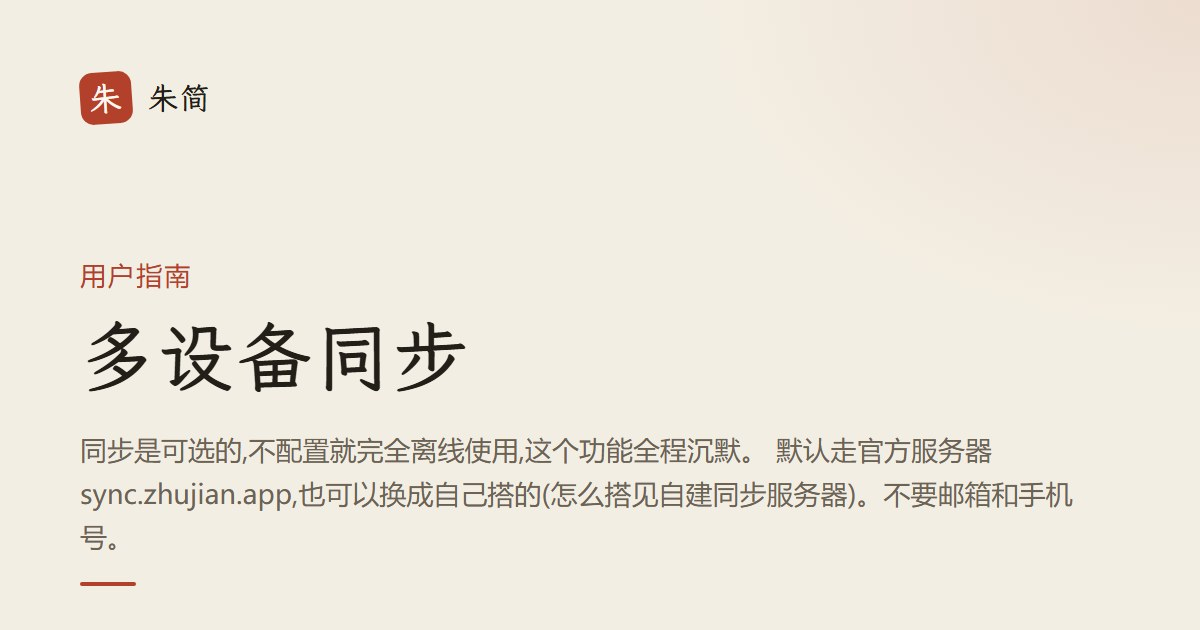
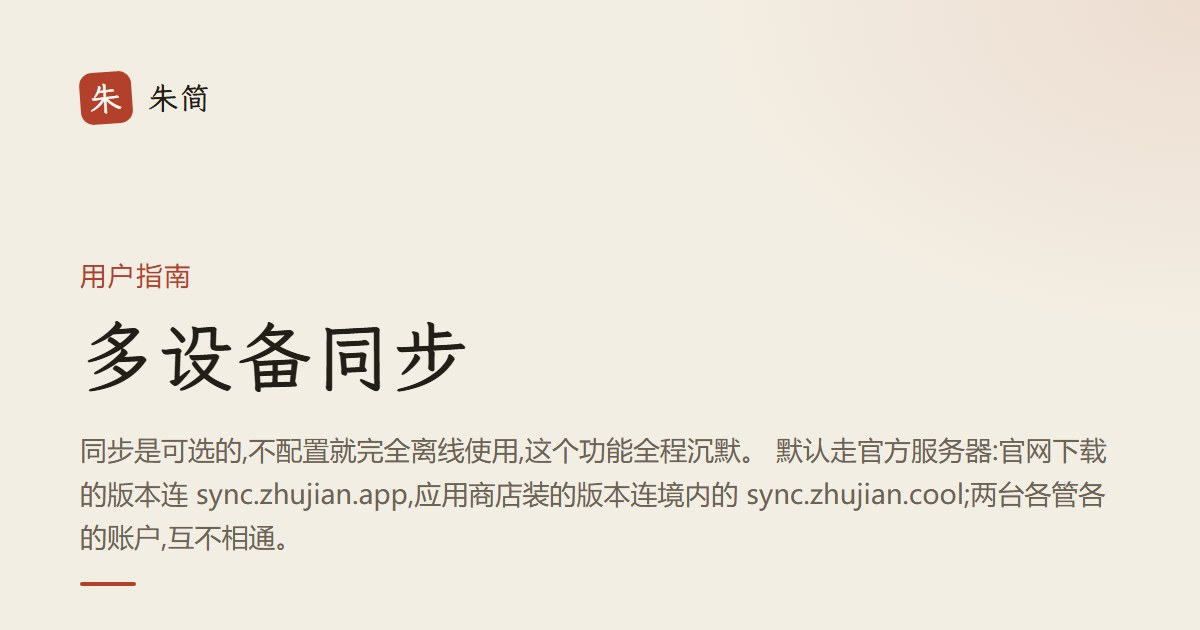
sync: 2026-09-30 (8bf8516)

Changed region(s): [[0.0617, 0.6937, 0.925, 0.8746]]

diff --git a/site/index.html b/site/index.html
@@ -1520,7 +1520,7 @@
             </div>
             <div>
               <h3 data-i18n="promise.statsTitle">没有统计代码</h3>
-              <p data-i18n="promise.stats">不开同步时,应用只会连 zhujian.app 查有没有新版本。</p>
+              <p data-i18n="promise.stats">不开同步时,官网下载的版本只连 zhujian.app 查新版本,商店装的一处都不连。</p>
             </div>
             <div>
               <h3 data-i18n="promise.aiTitle">不用 AI 改你的字</h3>
@@ -1746,7 +1746,7 @@
           "promise.dataTitle": { zh: "数据在你的设备上", en: "Data on your own devices" },
           "promise.data": { zh: "存在你自己设备上的 SQLite 数据库里,不联网也照常用。同步是可选的:文字和图片在你的设备上加密后才发出,服务器只经手密文。", en: "It lives in a SQLite database on your own device and works offline. Sync is optional: text and images are encrypted on your device before they leave, so the server only ever handles ciphertext." },
           "promise.statsTitle": { zh: "没有统计代码", en: "No analytics" },
-          "promise.stats": { zh: "不开同步时,应用只会连 zhujian.app 查有没有新版本。", en: "With sync off, the app only contacts zhujian.app to check for updates." },
+          "promise.stats": { zh: "不开同步时,官网下载的版本只连 zhujian.app 查新版本,商店装的一处都不连。", en: "With sync off, builds downloaded from zhujian.app only check it for updates; store builds contact nothing at all." },
           "promise.aiTitle": { zh: "不用 AI 改你的字", en: "No AI touching your words" },
           "promise.ai": { zh: "不润色、不总结、不替你归类。你写下什么,留下的就是什么。", en: "No polishing, no summaries, no auto-sorting. What you write is what stays." },
           "promise.linkSecurity": { zh: "同步服务器看得到什么、看不到什么 →", en: "What the sync server can and can't see →" },
@@ -1783,7 +1783,7 @@
           "facts.syncLabel": { zh: "同步", en: "Sync" },
           "facts.sync": { zh: "可选,端到端加密。文字和图片在你的设备上加密后才发出;服务器经手的只有密文,读不到内容;它不做备份,找回数据靠你自己的设备。同一个 Wi-Fi 下的两台设备直接互传,不经服务器;同网的人看不到内容,但能看出它们在同步。", en: "Optional, end-to-end encrypted. Notes and images are encrypted on your device before they leave; the server only ever handles ciphertext and cannot read it. It is not a backup; recovery relies on your own devices. Two devices on the same Wi-Fi sync directly, without the server; others on that network cannot read the content, though they can tell the two are syncing." },
           "facts.trackLabel": { zh: "统计", en: "Analytics" },
-          "facts.track": { zh: "没有统计代码。不开同步时,应用只会连 zhujian.app 查有没有新版本。", en: "No analytics. With sync off, the only place the app talks to is zhujian.app, to check for new versions." },
+          "facts.track": { zh: "没有统计代码。不开同步时,官网下载的版本只会连 zhujian.app 查有没有新版本;应用商店装的版本更新由商店管,一处都不连。", en: "No analytics. With sync off, builds downloaded from zhujian.app only contact zhujian.app, to check for new versions; store builds leave updates to the store and contact nothing at all." },
           "facts.aiLabel": { zh: "AI", en: "AI" },
           "facts.ai": { zh: "没有。不替你归类,不改你写的字;早期做过,已经删掉。", en: "None. It does not file or rewrite anything for you; the early version had some, and that code was removed." },
           "facts.freeLabel": { zh: "免费与开源", en: "Free and open source" },

diff --git a/site-app/docs/sync.html b/site-app/docs/sync.html
@@ -8,14 +8,14 @@
          字典与运行期在页面末尾的那段内联 script 里(⚠ 注释里别写闭合标签的字面量:
          按标签切文件的工具会先命中这里,360 当场栽过一次)。 -->
     <title>多设备同步 · 朱简用户指南</title>
-    <meta name="description" content="同步是可选的,不配置就完全离线使用,这个功能全程沉默。 默认走官方服务器 sync.zhujian.app,也可以换成自己搭的(怎么搭见自建同步服务器)。不要邮箱和手机号。" />
+    <meta name="description" content="同步是可选的,不配置就完全离线使用,这个功能全程沉默。 默认走官方服务器:官网下载的版本连 sync.zhujian.app,应用商店装的版本连境内的 sync.zhujian.cool;两台各管各的账户,互不相通。" />
 
     <!-- ───────── 分享卡片与 canonical(生成器写的;这一页只有中文,不挂 hreflang)───────── -->
     <link rel="canonical" href="https://zhujian.app/docs/sync.html" />
     <meta property="og:type" content="article" />
     <meta property="og:url" content="https://zhujian.app/docs/sync.html" />
     <meta property="og:title" content="多设备同步 · 朱简用户指南" />
-    <meta property="og:description" content="同步是可选的,不配置就完全离线使用,这个功能全程沉默。 默认走官方服务器 sync.zhujian.app,也可以换成自己搭的(怎么搭见自建同步服务器)。不要邮箱和手机号。" />
+    <meta property="og:description" content="同步是可选的,不配置就完全离线使用,这个功能全程沉默。 默认走官方服务器:官网下载的版本连 sync.zhujian.app,应用商店装的版本连境内的 sync.zhujian.cool;两台各管各的账户,互不相通。" />
     <meta property="og:image" content="https://zhujian.app/og/docs-sync.jpg" />
     <meta property="og:image:width" content="1200" />
     <meta property="og:image:height" content="630" />
@@ -1368,7 +1368,7 @@
         <div class="docs-prose">
 <ul>
 <li>同步是<strong>可选</strong>的,不配置就完全离线使用,这个功能全程沉默。</li>
-<li>默认走官方服务器 <code>sync.zhujian.app</code>,也可以换成自己搭的(怎么搭见<a href="/docs/self-host.html">自建同步服务器</a>)。不要邮箱和手机号。</li>
+<li>默认走官方服务器:官网下载的版本连 <code>sync.zhujian.app</code>,应用商店装的版本连境内的 <code>sync.zhujian.cool</code>;两台各管各的账户,互不相通。也可以换成自己搭的(怎么搭见<a href="/docs/self-host.html">自建同步服务器</a>)。不要邮箱和手机号。</li>
 <li>第一台设备点「创建账户」就开好了,不用抄任何东西;其余设备输入老设备生成的<strong>配对码</strong>加入,自动拿到全量数据,此后离线照用、上线互补。拿全量数据的那一会儿老设备要开着并联网;它不在线时新设备会说明原因,等它一上线自动接着拉。</li>
 <li>内容在你的设备上加密之后才发出去,服务器经手的只有密文,读不到内容。</li>
 <li>⚠ <strong>账户密钥只在你自己的设备上</strong>,服务器没有、也不做备份。<strong>恢复数据始终要靠至少一台还留着完整副本的设备,或一份你自己做的加密备份文件</strong>(下面「加密备份与备份码」那节);全部设备都丢了又没有备份,谁也帮不了。早期版本创建账户时会让你抄一串「恢复码」—— 它从来没有派上用场的地方,已经去掉;抄过的那串作废,不必再保管。</li>

diff --git a/android/src/locales/main.ts b/android/src/locales/main.ts
@@ -67,7 +67,7 @@ export const main = defineMessages({
   "main.renameOk": { zh: "确定", en: "OK" },
   "main.renameCancel": { zh: "取消", en: "Cancel" },
   "main.resetWarnSynced": { zh: "将删除本机此空间的全部数据,不可恢复。确认另一台设备有在线完整副本后再继续;重置后可用「加入空间」重新加入,旧设备身份请告知运营者吊销。", en: "This deletes all data of this space on this device, irreversibly. Make sure another device has a complete copy online before continuing; afterwards you can rejoin via “Join a space”. Ask the operator to revoke the old device identity." },
-  "main.resetWarnLocalOnly": { zh: "此空间未开启同步,本机就是**唯一副本**。重置=永久删除这个本子的全部内容,没有任何地方可以找回。", en: "Sync is off for this space; this device holds the **only copy**. Resetting permanently deletes everything in this notebook, with no way to get it back." },
+  "main.resetWarnLocalOnly": { zh: "此空间未开启同步,本机就是唯一副本。重置=永久删除这个本子的全部内容,没有任何地方可以找回。", en: "Sync is off for this space; this device holds the only copy. Resetting permanently deletes everything in this notebook, with no way to get it back." },
   "main.resetConfirm": { zh: "确认重置(删除本机数据)", en: "Confirm reset (delete local data)" },
   "main.tagCurrent": { zh: "当前", en: "Current" },
   "main.tagLocalOnly": { zh: "仅本机", en: "Local only" },
@@ -85,6 +85,7 @@ export const main = defineMessages({
   "main.aliasCleared": { zh: "已清除别名", en: "Alias cleared" },
   "main.aliasSaved": { zh: "已保存,会同步到其他设备", en: "Saved, will sync to your other devices" },
   "main.spaceReset": { zh: "已重置此空间。要重新加入账户,用「空间」里的「加入空间」。", en: "This space was reset. To rejoin the account, use “Join a space” under Spaces." },
+  "main.spaceResetLocalOnly": { zh: "已重置此空间,本机上它的内容已全部删除。", en: "This space was reset; everything in it on this device has been deleted." },
   "main.spaceNameRequired": { zh: "空间名不能为空", en: "Space name cannot be empty" },
   "main.spaceNamePrompt": { zh: "给空间起个名字(比如「家庭」)", en: "Give the space a name (e.g. “Family”)" },
   "main.spaceCreated": { zh: "空间已创建。", en: "Space created." },

diff --git a/site-app/en/security.html b/site-app/en/security.html
@@ -1352,7 +1352,7 @@
             <dt data-i18n="facts.syncLabel">Sync</dt>
             <dd data-i18n="facts.sync">Optional, end-to-end encrypted. Notes and images are encrypted on your device before they leave; the server only ever handles ciphertext and cannot read it. It is not a backup; recovery relies on your own devices. Two devices on the same Wi-Fi sync directly, without the server; others on that network cannot read the content, though they can tell the two are syncing.</dd>
             <dt data-i18n="facts.trackLabel">Analytics</dt>
-            <dd data-i18n="facts.track">No analytics. With sync off, the only place the app talks to is zhujian.app, to check for new versions.</dd>
+            <dd data-i18n="facts.track">No analytics. With sync off, builds downloaded from zhujian.app only contact zhujian.app, to check for new versions; store builds leave updates to the store and contact nothing at all.</dd>
             <dt data-i18n="facts.aiLabel">AI</dt>
             <dd data-i18n="facts.ai">None. It does not file or rewrite anything for you; the early version had some, and that code was removed.</dd>
             <dt data-i18n="facts.freeLabel">Free and open source</dt>

diff --git a/site-app/security.html b/site-app/security.html
@@ -1352,7 +1352,7 @@
             <dt data-i18n="facts.syncLabel">同步</dt>
             <dd data-i18n="facts.sync">可选,端到端加密。文字和图片在你的设备上加密后才发出;服务器经手的只有密文,读不到内容;它不做备份,找回数据靠你自己的设备。同一个 Wi-Fi 下的两台设备直接互传,不经服务器;同网的人看不到内容,但能看出它们在同步。</dd>
             <dt data-i18n="facts.trackLabel">统计</dt>
-            <dd data-i18n="facts.track">没有统计代码。不开同步时,应用只会连 zhujian.app 查有没有新版本。</dd>
+            <dd data-i18n="facts.track">没有统计代码。不开同步时,官网下载的版本只会连 zhujian.app 查有没有新版本;应用商店装的版本更新由商店管,一处都不连。</dd>
             <dt data-i18n="facts.aiLabel">AI</dt>
             <dd data-i18n="facts.ai">没有。不替你归类,不改你写的字;早期做过,已经删掉。</dd>
             <dt data-i18n="facts.freeLabel">免费与开源</dt>

diff --git a/site/pages/security.html b/site/pages/security.html
@@ -28,7 +28,7 @@
             <dt data-i18n="facts.syncLabel">同步</dt>
             <dd data-i18n="facts.sync">可选,端到端加密。文字和图片在你的设备上加密后才发出;服务器经手的只有密文,读不到内容;它不做备份,找回数据靠你自己的设备。同一个 Wi-Fi 下的两台设备直接互传,不经服务器;同网的人看不到内容,但能看出它们在同步。</dd>
             <dt data-i18n="facts.trackLabel">统计</dt>
-            <dd data-i18n="facts.track">没有统计代码。不开同步时,应用只会连 zhujian.app 查有没有新版本。</dd>
+            <dd data-i18n="facts.track">没有统计代码。不开同步时,官网下载的版本只会连 zhujian.app 查有没有新版本;应用商店装的版本更新由商店管,一处都不连。</dd>
             <dt data-i18n="facts.aiLabel">AI</dt>
             <dd data-i18n="facts.ai">没有。不替你归类,不改你写的字;早期做过,已经删掉。</dd>
             <dt data-i18n="facts.freeLabel">免费与开源</dt>

diff --git a/site-app/docs/data.html b/site-app/docs/data.html
@@ -1369,7 +1369,7 @@
 <ul>
 <li>你的内容存在<strong>你自己这台设备</strong>上,是一个 SQLite 数据库。不联网也照常用。</li>
 <li>电脑上在 <code>%APPDATA%\app.zhujian.notebook\</code>;手机上在应用自己的私有目录里。</li>
-<li>不开同步时,应用只会连 <code>zhujian.app</code> 查有没有新版本,别处一概不连。</li>
+<li>不开同步时,官网下载的版本只会连 <code>zhujian.app</code> 查有没有新版本,别处一概不连;应用商店装的版本(比如华为应用市场的鸿蒙版)更新由商店管,一处都不连。</li>
 <li>每个<strong>空间</strong>是一本完全独立的册子,各自的随记、看板、标签、搜索,各自的同步账户。</li>
 <li>想把内容拿出去(存一份文本、喂给别的工具),电脑上有两条路,都是 Markdown:</li>
 <ul>

diff --git a/android/src/main.ts b/android/src/main.ts
@@ -2233,9 +2233,11 @@ $("space-list").addEventListener("click", async (e) => {
   if (el.dataset.resetOk) {
     const id = el.dataset.resetOk;
     resettingSpace = null;
+    // 仅本机的本子没有账户可「重新加入」(与确认条的话术分流同一判据)。
+    const wasSynced = spacesCache.find((s) => s.id === id)?.configured;
     try {
       await invoke("reset_space", { spaceId: id });
-      showError(t("main.spaceReset"));
+      showError(wasSynced ? t("main.spaceReset") : t("main.spaceResetLocalOnly"));
       resetSyncTransient(); // 重置空间的出码页等一次性展示随之作废。
       await reconcileForeground(); // 前台可能已落回 main(后端广播为准,这里对账兜底)。
       await refreshSpaces();

diff --git a/site-app/en/index.html b/site-app/en/index.html
@@ -1512,7 +1512,7 @@
             </div>
             <div>
               <h3 data-i18n="promise.statsTitle">No analytics</h3>
-              <p data-i18n="promise.stats">With sync off, the app only contacts zhujian.app to check for updates.</p>
+              <p data-i18n="promise.stats">With sync off, builds downloaded from zhujian.app only check it for updates; store builds contact nothing at all.</p>
             </div>
             <div>
               <h3 data-i18n="promise.aiTitle">No AI touching your words</h3>

diff --git a/site-app/index.html b/site-app/index.html
@@ -1512,7 +1512,7 @@
             </div>
             <div>
               <h3 data-i18n="promise.statsTitle">没有统计代码</h3>
-              <p data-i18n="promise.stats">不开同步时,应用只会连 zhujian.app 查有没有新版本。</p>
+              <p data-i18n="promise.stats">不开同步时,官网下载的版本只连 zhujian.app 查新版本,商店装的一处都不连。</p>
             </div>
             <div>
               <h3 data-i18n="promise.aiTitle">不用 AI 改你的字</h3>

diff --git a/docs/user-guide.md b/docs/user-guide.md
@@ -10,7 +10,7 @@
 
 - 你的内容存在**你自己这台设备**上,是一个 SQLite 数据库。不联网也照常用。
 - 电脑上在 `%APPDATA%\app.zhujian.notebook\`;手机上在应用自己的私有目录里。
-- 不开同步时,应用只会连 `zhujian.app` 查有没有新版本,别处一概不连。
+- 不开同步时,官网下载的版本只会连 `zhujian.app` 查有没有新版本,别处一概不连;应用商店装的版本(比如华为应用市场的鸿蒙版)更新由商店管,一处都不连。
 - 每个**空间**是一本完全独立的册子,各自的随记、看板、标签、搜索,各自的同步账户。
 - 想把内容拿出去(存一份文本、喂给别的工具),电脑上有两条路,都是 Markdown:
   - **复制**:随记页顶栏【复制随记】、看板页【复制看板】、列头【复制】,复制到剪贴板的是**当前筛出来显示的**那些,只有文字。
@@ -68,7 +68,7 @@
 ## 多设备同步
 
 - 同步是**可选**的,不配置就完全离线使用,这个功能全程沉默。
-- 默认走官方服务器 `sync.zhujian.app`,也可以换成自己搭的(怎么搭见[自建同步服务器](#自建同步服务器))。不要邮箱和手机号。
+- 默认走官方服务器:官网下载的版本连 `sync.zhujian.app`,应用商店装的版本连境内的 `sync.zhujian.cool`;两台各管各的账户,互不相通。也可以换成自己搭的(怎么搭见[自建同步服务器](#自建同步服务器))。不要邮箱和手机号。
 - 第一台设备点「创建账户」就开好了,不用抄任何东西;其余设备输入老设备生成的**配对码**加入,自动拿到全量数据,此后离线照用、上线互补。拿全量数据的那一会儿老设备要开着并联网;它不在线时新设备会说明原因,等它一上线自动接着拉。
 - 内容在你的设备上加密之后才发出去,服务器经手的只有密文,读不到内容。
 - ⚠ **账户密钥只在你自己的设备上**,服务器没有、也不做备份。**恢复数据始终要靠至少一台还留着完整副本的设备,或一份你自己做的加密备份文件**(下面「加密备份与备份码」那节);全部设备都丢了又没有备份,谁也帮不了。早期版本创建账户时会让你抄一串「恢复码」—— 它从来没有派上用场的地方,已经去掉;抄过的那串作废,不必再保管。
